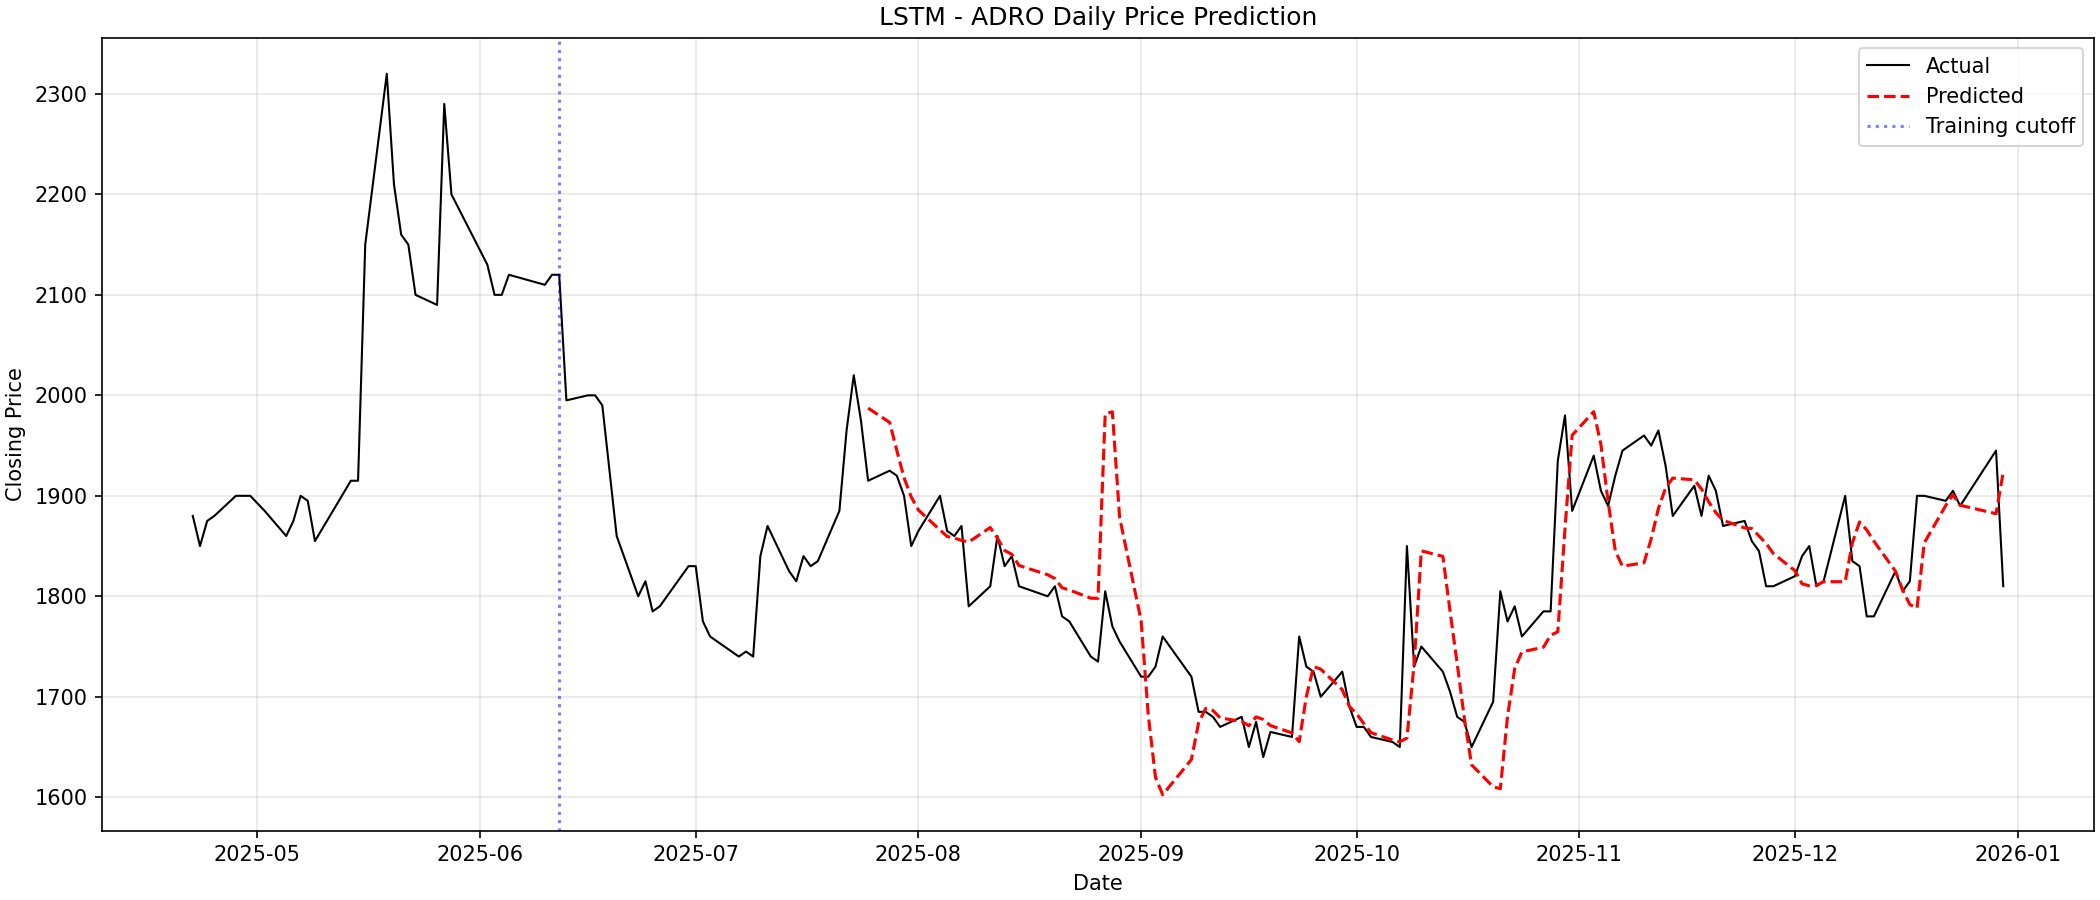
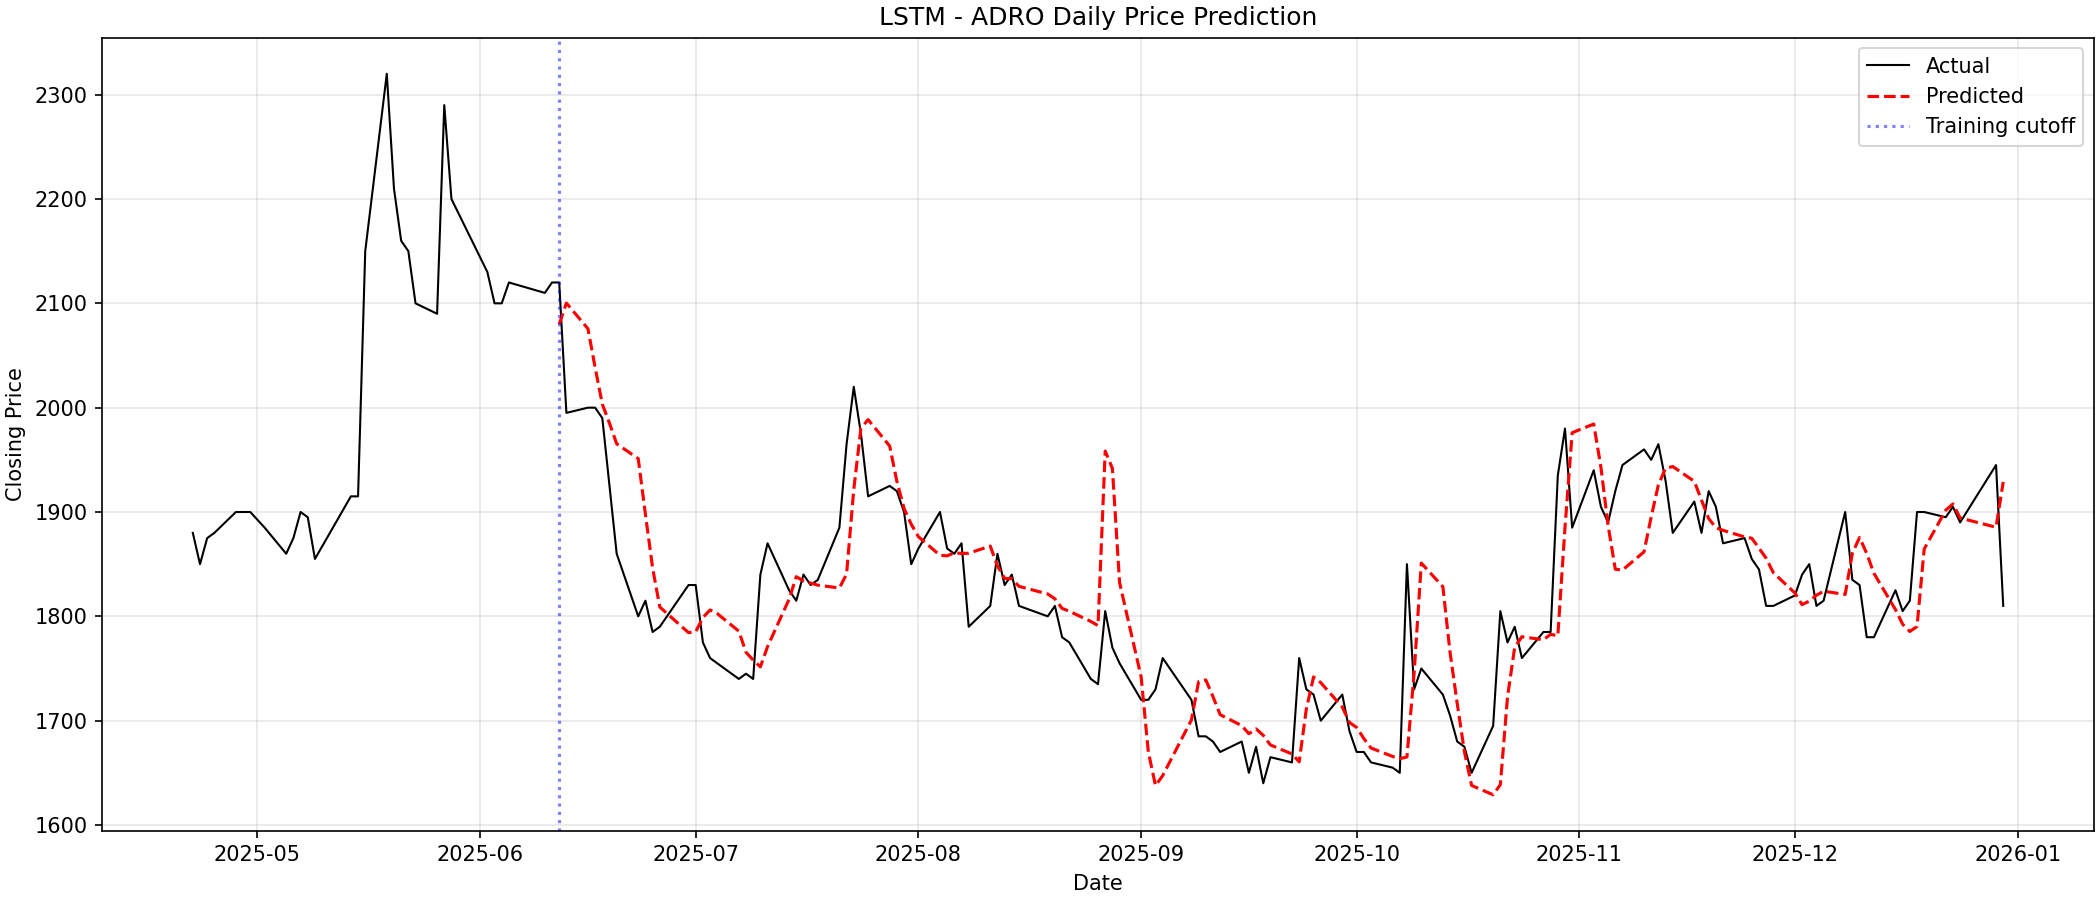
GRU model + LSTM update - finished GRU model (still open for revisions) - LSTM updated with iteration on all tickers

diff --git a/models/GRU/gru.py b/models/GRU/gru.py
@@ -14,7 +14,7 @@ import pickle
 from sklearn.preprocessing import MinMaxScaler
 
 from tensorflow.keras.models import Sequential
-from tensorflow.keras.layers import LSTM, Dense, Dropout
+from tensorflow.keras.layers import GRU, Dense, Dropout
 from tensorflow.keras.callbacks import EarlyStopping
 
 def list_ticker_name(tickers, processed_dataset_path):
@@ -50,18 +50,18 @@ def plot_results(dataset, ticker_name, testing_data, real_predictions, window_si
     plt.plot(prediction_dates, real_predictions, label = "Predicted", color = "red", linewidth = 1.5, linestyle = "--")
     plt.axvline(x = testing_data.index[0], color = "blue", linestyle = ":", alpha = 0.5, label = "Training cutoff")
 
-    plt.title(f"LSTM - {ticker_name} Daily Price Prediction")
+    plt.title(f"GRU - {ticker_name} Daily Price Prediction")
     plt.xlabel("Date")
     plt.ylabel("Closing Price")
     plt.legend()
 
     plt.grid(True, alpha = 0.3)
 
-    target_path = Path(__file__).parent.parent.parent / "results" / "plots" / "LSTM"
+    target_path = Path(__file__).parent.parent.parent / "results" / "plots" / "GRU"
     plt.savefig(target_path / f"{ticker_name}.png", dpi = 150)
     plt.close()
 
-def lstm():
+def gru():
     tickers = []
     results = []
 
@@ -81,9 +81,9 @@ def lstm():
 
         # Build
         model = Sequential()
-        model.add(LSTM(128, return_sequences = True, input_shape = (window_size, 5)))
+        model.add(GRU(128, return_sequences = True, input_shape = (window_size, 5)))
         model.add(Dropout(0.15))
-        model.add(LSTM(128))
+        model.add(GRU(128))
         model.add(Dropout(0.15))
         model.add(Dense(1))
 
@@ -106,7 +106,7 @@ def lstm():
         # Test
         predictions = model.predict(X_testing)
 
-        temp_prediction = np.zeros((len(predictions), 5)) # prediction dari LSTM
+        temp_prediction = np.zeros((len(predictions), 5)) # prediction dari GRU
         temp_prediction[:, 3] = predictions[:, 0]
         real_predictions = scaler.inverse_transform(temp_prediction)[:, 3]
 
@@ -119,7 +119,7 @@ def lstm():
         ticker_name = ticker.replace(".csv", "")
         results.append({
             "ticker": ticker_name,
-            "model": "LSTM",
+            "model": "GRU",
             "MAE": mae, "MSE": mse, "RMSE": rmse, "MAPE": mape,
             "parameter": f"window = {window_size}, units = 128, layers = 2, dropout = 0.15",
         })
@@ -127,6 +127,6 @@ def lstm():
         plot_results(dataset, ticker_name, testing_data, real_predictions, window_size)
 
     target_path = Path(__file__).parent.parent.parent / "results"
-    pd.DataFrame(results).to_csv(target_path / "LSTM_evaluation.csv", index = False)
-
-lstm()
+    pd.DataFrame(results).to_csv(target_path / "GRU_evaluation.csv", index = False)
+    
+gru()

diff --git a/models/SARIMA/sarima.py b/models/SARIMA/sarima.py
@@ -93,7 +93,6 @@ def sarima():
 
         # Find best parameter
         d = find_d(training_data)
-        # p, q = aic_grid_search(training_data, d)
         order, seasonal = aic_grid_search(training_data, d)
 
         # Model

diff --git a/todo.md b/todo.md
@@ -1,0 +1,5 @@
+# Future To Do
+1. Hyperparameter tuning for DL models
+2. Create iterations and graph comparison to find best parameter combinations for DL models and proof of concept
+3. Run model 10 times to get the average results of each model's evaluation matrix on the DL
+4. Analyse all CSV produced by models
